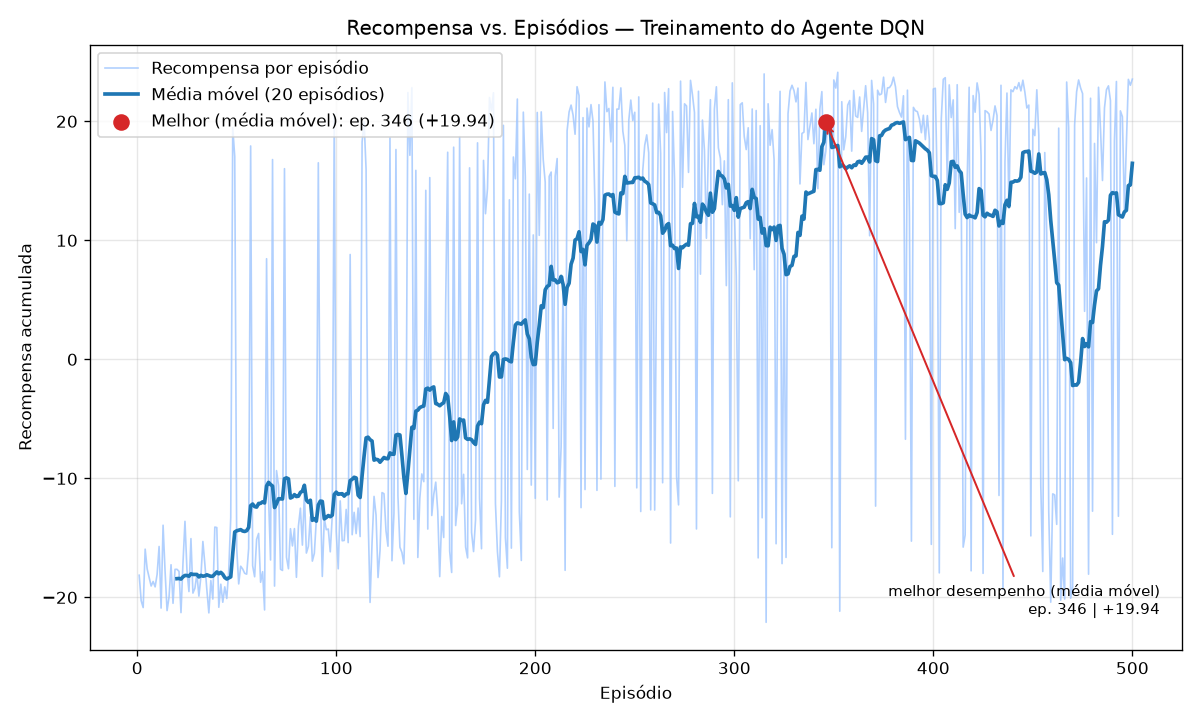
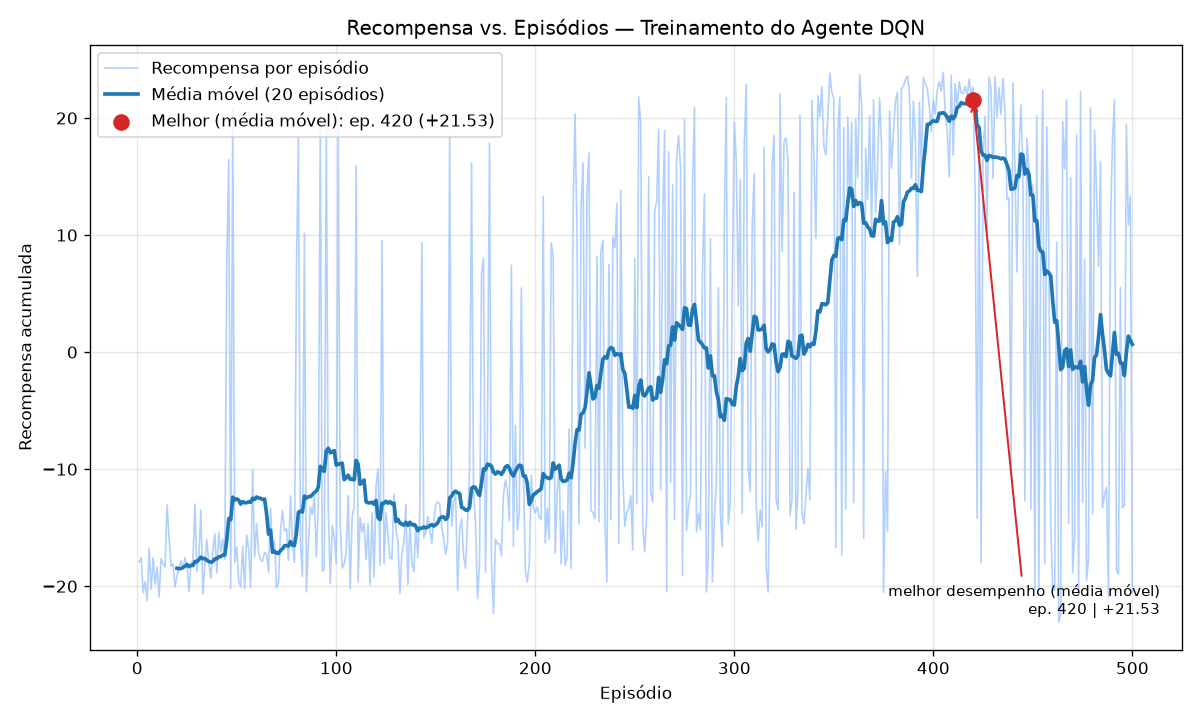
docs: relatório técnico da implementação (domínio, MDP, resultados, futuro)
Relatório técnico detalhado do ITS por RL na branch baseline:
- Domínio e escopo (ITS ENEM, grafo de conhecimento/DAG) com figura.
- Formulação como MDP (estado, ações, recompensa, DQN) em tabelas.
- Parecer sobre a linha de pensamento: diagnóstico dos 5 problemas de
  modelagem (recompensa de média zero etc.) e suas correções.
- Resultados com gráficos (curva de aprendizado, evolução da proficiência) e
  tabelas, incluindo robustez entre 3 execuções (~93% nível avançado, 8.7/12).
- Limitações e trabalhos futuros (modelo de crença/BKT validado na branch
  sondagem; espaço V×D testado e descartado para DQN; PPO, dados reais, etc.).

Inclui figuras geradas em docs/figuras/ e atualiza os artefatos de treino.

diff --git a/docs/RELATORIO_TECNICO.md b/docs/RELATORIO_TECNICO.md
@@ -1,0 +1,277 @@
+# Relatório Técnico — Sistema Tutor Inteligente (ITS) com Aprendizado por Reforço
+
+**Projeto:** `enem-rl-tutor` — Tutor adaptativo de Matemática para o ENEM
+**Branch:** `refatoracao` (implementação de referência / baseline estável)
+**Algoritmo:** Deep Q-Network (DQN)
+
+---
+
+## 1. Sumário executivo
+
+Este projeto modela um **Sistema Tutor Inteligente (ITS)** como um problema de
+**Aprendizado por Reforço (RL)**: em vez de recomendar produtos para maximizar
+cliques, o agente recomenda **trilhas de questões para maximizar o aprendizado**,
+conduzindo o aluno do nível básico ao avançado dentro de um currículo de
+Matemática do ENEM.
+
+O ambiente é o **modelo cognitivo do aluno**; o agente é o **modelo pedagógico**.
+A implementação de referência (`refatoracao`) entrega um agente DQN que:
+
+- **aprende uma política pedagógica coerente** (avalia, consolida e avança no
+  currículo, respeitando pré-requisitos);
+- leva o aluno simulado a **dominar ~8,7/12 conceitos (≈73% do currículo)**,
+  atingindo o "nível avançado" em **~93% das execuções** (média de 3 treinos);
+- inverte o quadro inicial em que o treinamento **não aprendia nada** (recompensa
+  travada em ~0): hoje a recompensa cresce de forma sustentada.
+
+O documento descreve o domínio, a formulação como MDP, a implementação, o
+**parecer sobre a linha de pensamento** (o diagnóstico que reescreveu o ambiente)
+e os **resultados**, encerrando com **limitações e trabalhos futuros**.
+
+---
+
+## 2. Domínio e escopo
+
+### 2.1 O problema pedagógico
+
+O objetivo é manter o aluno na **Zona de Desenvolvimento Proximal (ZDP)** —
+questões nem fáceis demais (tédio/desperdício) nem difíceis demais (frustração) —
+e fazê-lo **evoluir** até conceitos avançados, evitando que fique preso no fácil.
+Fundamentos teóricos incorporados: ZDP (Vygotsky), Teoria de Resposta ao Item
+(TRI) e Modelo Aberto do Aluno.
+
+### 2.2 O Modelo de Domínio — Grafo de Conhecimento (DAG)
+
+O currículo é um **Grafo Direcionado Acíclico** `G = (V, E)`: os vértices são
+conceitos e as arestas são **pré-requisitos** (`v_i → v_j` ⇒ dominar `v_i` é
+necessário para aprender `v_j`). A implementação usa 12 conceitos em 5 níveis de
+profundidade:
+
+![Grafo de Conhecimento](figuras/grafo_conhecimento.png)
+
+A profundidade no DAG é o **eixo de evolução**: o "nível avançado" corresponde a
+dominar os conceitos profundos (ex.: `Volumes_Areas_Espacial`, profundidade 4),
+que exigem a cadeia completa de pré-requisitos.
+
+---
+
+## 3. Formulação como MDP
+
+A tabela abaixo mapeia os elementos do domínio para o Processo de Decisão de
+Markov implementado (alinhado ao documento de concepção do projeto):
+
+| Elemento RL | Implementação no ITS |
+|---|---|
+| **Ambiente** | Modelo cognitivo do aluno simulado (`StudentEnvironment`) |
+| **Estado `S`** | Vetor de **proficiências por conceito (12)** ⊕ **one-hot do conceito atual (12)** → `dim_estado = 24` |
+| **Ações `A`** | 3 intervenções pedagógicas: **Avançar** (sucessor no DAG), **Reforçar** (mesmo conceito), **Remediar** (pré-requisito) |
+| **Transição** | Atualização da proficiência (sobe ao acertar, cai ao errar), **escalada pelo domínio dos pré-requisitos** |
+| **Recompensa `R`** | Orientada à meta (ver §3.1) |
+| **Algoritmo** | Deep Q-Network (estado contínuo + ações discretas) |
+
+### 3.1 Função de recompensa
+
+A recompensa foi projetada para **guiar o agente ao comportamento ótimo** —
+levar o aluno ao nível avançado — e não apenas a "manter na ZDP":
+
+```
+R_t = W_PROGRESSO · Δprof · peso_profundidade     (ganho de aprendizado, ponderado por profundidade)
+    + bônus de domínio                            (1ª vez que um conceito cruza o limiar τ = 0,8)
+    − W_ZDP · |ŷ − 0,5|                            (mantém na Zona de Desenvolvimento Proximal)
+    − W_PASSO                                      (custo por passo → eficiência)
+    + W_OBJETIVO                                   (bônus terminal ao atingir o nível avançado)
+```
+
+| Parâmetro | Valor | Papel |
+|---|---|---|
+| `W_PROGRESSO` | 4,0 | Recompensa densa pelo ganho de proficiência (mais peso em conceitos profundos) |
+| `W_DOMINIO` | 1,5 | Bônus por **dominar** um conceito novo |
+| `W_ZDP` | 0,20 | Penalidade por sair da ZDP |
+| `W_PASSO` | 0,01 | Eficiência (evita enrolar) |
+| `W_OBJETIVO` | 15,0 | Bônus terminal |
+| `τ` (limiar de domínio) | 0,80 | Proficiência a partir da qual há "domínio" |
+| Meta | 70% | Fração do currículo dominada = "nível avançado" |
+
+A probabilidade de acerto segue uma **logística estilo TRI**:
+`ŷ = σ(k·[(prof − dificuldade) + α·(domínio_dos_pré-requisitos − 0,5)])`, de modo
+que pré-requisitos fracos derrubam `ŷ` — é isso que dá sentido pedagógico a
+"Remediar" e cria a dinâmica de currículo.
+
+---
+
+## 4. Arquitetura da implementação
+
+```
+enem-rl-tutor/
+├── data/database_setup.py   # DAG + banco de questões em GRADE (conceito × dificuldade)
+├── env/student_env.py       # Ambiente: Modelo do Aluno + dinâmica + recompensa
+└── agent/
+    ├── model.py             # Q-Network (MLP)
+    ├── replay_buffer.py     # Experience Replay
+    ├── dqn_agent.py         # Política ε-greedy, alvo de Bellman, soft update
+    └── train.py             # Loop de treino + avaliação gulosa + checkpoint
+```
+
+| Componente | Técnica | Observação |
+|---|---|---|
+| Q-Network | MLP 24→128→128→3 (ReLU) | Saída = Q-value por ação |
+| Experience Replay | Buffer circular (10k) | Quebra a correlação temporal |
+| Target Network | **Soft update (Polyak), τ=0,005** | Anti-divergência ("curvas serrilhadas") |
+| Exploração | ε-greedy (1,0 → 0,05) | Decaimento exponencial |
+| Perda | Huber (SmoothL1) + clip de gradiente | Estabilidade |
+| Seleção de checkpoint | **Melhor avaliação GULOSA (ε=0)** | A recompensa de treino com ε mascara colapsos |
+| Banco de questões | Grade 12 conceitos × 3 níveis × 5 = **180 questões** | Parametrizadas e reprodutíveis |
+
+---
+
+## 5. Parecer — a linha de pensamento
+
+A concepção original estava conceitualmente rica, mas a **modelagem do MDP
+impedia o aprendizado**. O trabalho central foi diagnosticar e reescrever o
+ambiente. Os cinco problemas e suas correções:
+
+| # | Problema diagnosticado | Por que travava | Correção |
+|---|---|---|---|
+| 1 | **Recompensa `R_t = y − ŷ`** | Com `ŷ` calibrado, `E[R_t] = 0` para **qualquer** política → gradiente nulo. O aluno melhorar não aumentava a recompensa | Recompensa **orientada à meta**: ganho de aprendizado ponderado por profundidade + bônus de domínio + bônus terminal |
+| 2 | **Estado não-Markoviano** | "Avançar/Reforçar/Remediar" dependem de *onde* o aluno está, mas o estado só tinha proficiências | **One-hot do conceito atual** no vetor de estado (`dim 12 → 24`) |
+| 3 | **Ação não controlava o desafio** | A questão era "casada" com a proficiência, fixando `ŷ ≈ 0,5` e neutralizando a ação | A dificuldade passa a vir do **conceito-alvo** escolhido pela ação |
+| 4 | **Treino não-episódico** | A proficiência era persistida no banco a cada passo → não-estacionário e irreprodutível | Proficiência **em memória**; `reset()` restaura o estado inicial |
+| 5 | **Sem meta nem acoplamento de pré-requisitos** | `done` só por fadiga; nada puxava ao avançado | **Bônus terminal** + sucesso/aprendizado **acoplado ao domínio dos pré-requisitos** + navegação determinística no DAG |
+
+Correções de engenharia adicionais: **soft update** da target network
+(estabilização exigida no projeto), **checkpoint pela avaliação gulosa** (a
+recompensa de treino mascarava políticas que colapsam no modo guloso), **banco
+de questões em grade** e correção do `.gitignore` (a regra padrão `env/`
+escondia o pacote-fonte do ambiente).
+
+> **Parecer:** o gargalo nunca foi o algoritmo (DQN), e sim a **modelagem do
+> problema**. Uma recompensa de média zero é a falha mais sutil e mais fatal:
+> o treino "roda", a perda parece comportada, mas a curva de recompensa fica
+> plana em ~0 porque não há nada para maximizar. Corrigida a modelagem, o mesmo
+> DQN passou a aprender uma política pedagógica sensata.
+
+---
+
+## 6. Resultados
+
+### 6.1 Curva de aprendizado
+
+Após as correções, a recompensa acumulada **cresce de forma sustentada** ao longo
+dos episódios (antes: plana em ~0, sem tendência):
+
+![Curva de aprendizado](../data/weights/recompensa_vs_episodios.png)
+
+### 6.2 Evolução do aluno
+
+A política gulosa **eleva substancialmente a proficiência** do aluno simulado,
+levando a maioria dos conceitos acima do limiar de domínio (linha tracejada):
+
+![Evolução da proficiência](figuras/evolucao_proficiencia.png)
+
+A figura também expõe, com honestidade, a principal **limitação** do baseline: a
+cadeia profunda de geometria (`Formulas_Areas_Plana → Geometria_Posicao →
+Volumes_Areas_Espacial`) permanece **não dominada** — o agente raramente a
+alcança, pois ela exige a satisfação simultânea de dois pré-requisitos. O aluno
+chega ao "nível avançado" pelos ramos de funções/estatística e geometria rasa,
+mas não pela folha mais profunda. Isso conecta-se diretamente à limitação do
+espaço de ações relativo (§7.2).
+
+### 6.3 Métricas (política gulosa, ε=0)
+
+| Métrica | Valor |
+|---|---|
+| Conceitos dominados (real) | **~8,7 / 12 (≈73% do currículo)** |
+| Taxa de "nível avançado" (≥70% dominado) | **~93%** (média de 3 execuções; ver §6.4) |
+| Perda de treino (estável) | ~0,11 |
+| Distribuição de ações | Avançar 51% · Reforçar 28% · Remediar 21% |
+
+A política usa as **três intervenções**: avança pelo currículo (Avançar),
+consolida conceitos (Reforçar) e recua para reforçar pré-requisitos fracos
+(Remediar) — respeitando o DAG e mantendo o aluno majoritariamente na ZDP. O
+padrão típico é de **avaliação/avanço seguido de consolidação** até cruzar a
+fração-alvo de domínio.
+
+### 6.4 Robustez entre execuções
+
+Treinando do zero 3 vezes e avaliando cada política (20 episódios gulosos):
+
+| Execução | Nível avançado | Conceitos dominados |
+|---|---|---|
+| 1 | 100% | 9,0 / 12 |
+| 2 | 95% | 8,7 / 12 |
+| 3 | 85% | 8,4 / 12 |
+| **Média** | **93%** | **8,7 / 12** |
+
+O desempenho é consistentemente alto (**85–100%**), mas a **variância entre
+execuções** é real — sintoma da instabilidade de métodos baseados em valor (a
+curva de treino oscila, como se vê em §6.1). O *checkpoint da melhor avaliação
+gulosa* é o que garante extrair uma boa política mesmo com a oscilação; ainda
+assim, execuções pontuais podem cair abaixo dessa faixa (ver limitação 1 em §7).
+
+---
+
+## 7. Limitações
+
+1. **Variância de treino (instabilidade do DQN).** Métodos baseados em valor
+   oscilam; execuções diferentes do mesmo código chegam a políticas de qualidade
+   distinta. Mitigado por *soft update* + *checkpoint* da melhor avaliação
+   gulosa, mas não eliminado.
+2. **Espaço de ações relativo (3 verbos).** O agente escolhe o *conceito* mas
+   **não a dificuldade da questão**. Ao chegar num conceito intrinsecamente
+   difícil, seu único recurso é repetir — e, como errar reduz a proficiência,
+   a repetição pode **piorar** o aluno (zona de frustração) em vez de adaptar.
+3. **Domínio-brinquedo.** 12 conceitos, 1 aluno simulado e **180 questões
+   sintéticas** (parametrizadas). Suficiente para validar a modelagem, insuficiente
+   para um produto real.
+4. **Estado totalmente observável.** O baseline assume que o sistema conhece a
+   proficiência verdadeira do aluno — irreal num tutor de produção.
+5. **Aluno simulado, não real.** A dinâmica de aprendizado/esquecimento é uma
+   aproximação; não foi validada contra dados de estudantes reais.
+
+---
+
+## 8. Trabalhos futuros
+
+As linhas abaixo foram exploradas em **branches separadas** durante o projeto e
+ficam documentadas como caminhos validados (ou descartados) para evolução:
+
+| Direção | Status | Resultado |
+|---|---|---|
+| **Modelo de crença (BKT) + sondagem por ganho de informação** | ✅ implementado (branch `sondagem`) | O sistema deixa de observar a verdade e passa a manter uma crença Bayesiana (média + incerteza); a recompensa de **sondagem** premia *descobrir* domínio oculto. Recupera a meta (**~90%**) e adiciona avaliação ativa — tornando o estado parcialmente observável tratável via estado-de-crença. |
+| **Espaço de ações `A = V × D` (conceito × dificuldade)** | ⚠️ testado e descartado (branch `acao-vxd`) | Dá controle fino da dificuldade (fecharia a limitação 7.2), mas o espaço de **36 ações** é difícil demais para DQN: o treino **diverge** (perda → 2,5). Nem **Double DQN** resgatou (estabilizou a perda, mas a meta seguiu ~0%). Conclusão: exige um motor de RL diferente (**PPO/A2C**). |
+| **Persistência da crença entre sessões** | proposto | Hoje a crença reinicia a cada episódio; um tutor real acumularia conhecimento sobre o aluno ao longo do tempo. |
+| **Dados reais do ENEM** | proposto | Substituir questões sintéticas por itens reais com dificuldade TRI; reservar um conjunto de avaliação. |
+| **Múltiplos perfis de aluno** | proposto | Treinar contra "bots" variados (chutador, consistente, esquecido) para uma política robusta. |
+| **Dashboard (Modelo Aberto do Aluno)** | proposto | Expor o estado de crença ao estudante para promover metacognição. |
+
+> **Síntese das explorações:** cada salto de expressividade do modelo exigiu um
+> aprendiz mais forte. O baseline (`refatoracao`) é o ponto de equilíbrio
+> estável; o **modelo de crença** (`sondagem`) é uma evolução **validada** e
+> recomendada; o **`V × D`** é o desenho conceitualmente ideal, mas que **só vive
+> com policy-gradient** (PPO), não com DQN.
+
+---
+
+## 9. Conclusão
+
+O projeto demonstra, de ponta a ponta, que **modelar corretamente o MDP** é o que
+torna um ITS por RL viável. A contribuição central não foi um truque de algoritmo,
+mas o **diagnóstico de que a recompensa original tinha média zero** e a sua
+reescrita orientada à meta, somada às correções de estado markoviano, treino
+episódico e acoplamento de pré-requisitos. O resultado é um agente que aprende
+uma **política pedagógica coerente com o domínio** — avalia, respeita
+pré-requisitos, mantém o aluno na ZDP e o conduz ao nível avançado.
+
+---
+
+## Apêndice — Como reproduzir
+
+```bash
+pip install -r requirements.txt
+python -m data.database_setup     # cria o DAG + banco de questões em grade
+python -m agent.train             # treina; salva pesos e a curva de aprendizado
+```
+
+Saídas: `data/weights/dqn_policy.pt` (melhor política) e
+`data/weights/recompensa_vs_episodios.png` (curva de aprendizado).
+Figuras deste relatório: `docs/figuras/`.